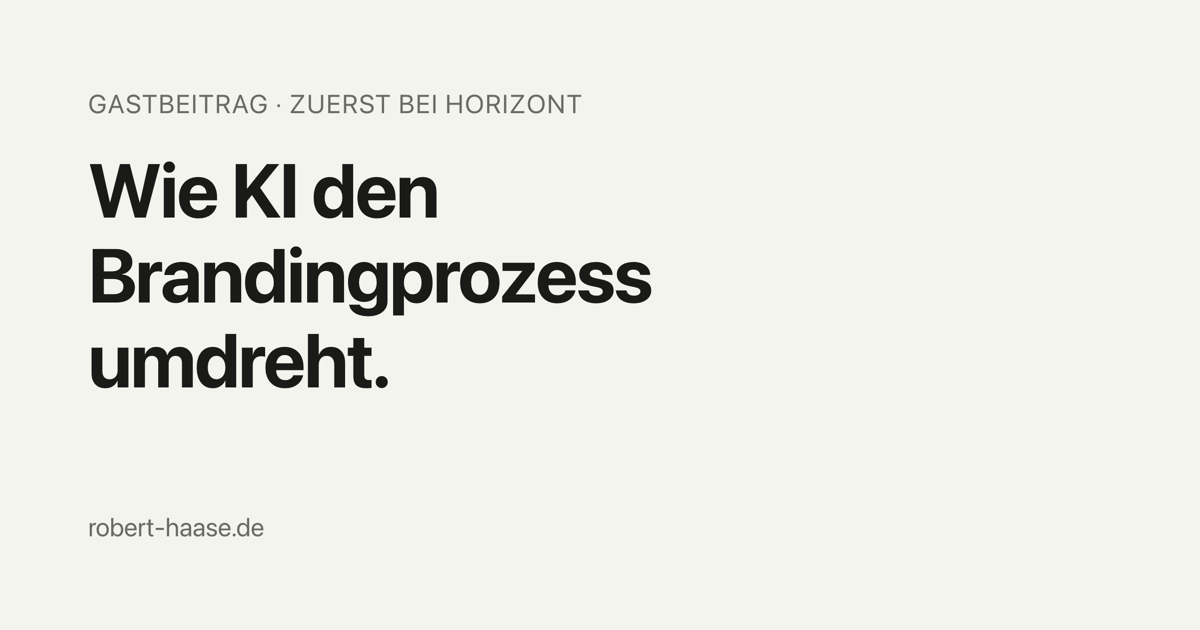
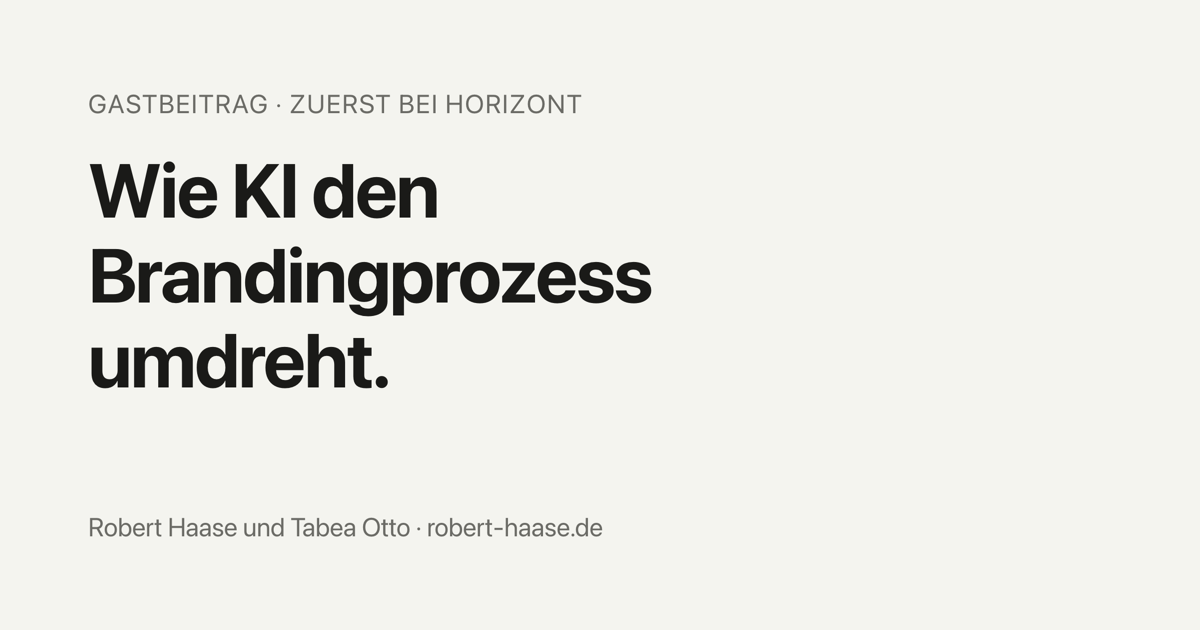
Gastbeitrag: Tabea Otto als Mitautorin
Autorenzeile, strukturierte Daten, Vorschaubilder, Artikelliste, Feed und
llms-Dateien nennen beide Namen.

Changed region(s): [[0.0617, 0.8143, 0.4933, 0.8746]]

diff --git a/en/how-ai-is-reversing-the-branding-process.html b/en/how-ai-is-reversing-the-branding-process.html
@@ -5,7 +5,7 @@
   <meta name="viewport" content="width=device-width, initial-scale=1.0">
   <title>How AI Is Reversing the Branding Process. | Robert Haase</title>
   <meta name="description" content="Teams produce with AI every day, and AI systems hand work to each other. Why this reverses the branding process. First published in German at HORIZONT.">
-  <meta name="author" content="Robert Haase">
+  <meta name="author" content="Robert Haase, Tabea Otto">
   <link rel="icon" href="/favicon.ico" sizes="any">
   <link rel="apple-touch-icon" href="/apple-touch-icon.png">
   <link rel="canonical" href="https://robert-haase.de/en/how-ai-is-reversing-the-branding-process.html">
@@ -69,13 +69,19 @@
   "@id": "https://robert-haase.de/en/how-ai-is-reversing-the-branding-process.html#article",
   "headline": "How AI Is Reversing the Branding Process.",
   "description": "Visibility in AI search is only the first stage. On the second, a company's own teams produce with AI; on the third, one system hands over to the next, and only what is explicitly defined arrives. Why checking how machines read the brand today moves to the start of the branding process.",
-  "author": {
-    "@id": "https://robert-haase.de/#person"
-  },
-  "contributor": {
-    "@type": "Person",
-    "name": "Tabea Otto"
-  },
+  "author": [
+    {
+      "@id": "https://robert-haase.de/#person"
+    },
+    {
+      "@type": "Person",
+      "name": "Tabea Otto",
+      "affiliation": {
+        "@type": "Organization",
+        "name": "MetaDesign"
+      }
+    }
+  ],
   "publisher": {
     "@type": "Organization",
     "name": "Robert Haase",
@@ -137,7 +143,7 @@
     <article>
       <section class="hero">
         <h1>How AI Is Reversing the Branding Process.</h1>
-        <p class="subtitle">September 2026 · <a href="about.html" rel="author" style="color: inherit; border-bottom: 1px solid var(--gray); text-decoration: none; padding-bottom: 1px;">Robert Haase</a></p>
+        <p class="subtitle">September 2026 · <a href="about.html" rel="author" style="color: inherit; border-bottom: 1px solid var(--gray); text-decoration: none; padding-bottom: 1px;">Robert Haase</a> and Tabea Otto</p>
         <p class="subtitle">First published in German at <a href="https://www.horizont.net/marketing/kommentare/markenfuehrung-wie-ki-den-brandingprozess-umdreht-235739" style="color: var(--white); border-bottom: 1px solid var(--gray); text-decoration: none; padding-bottom: 1px;">HORIZONT</a> on 9 September 2026.</p>
       </section>
 
@@ -191,9 +197,7 @@
 
         <p>And those who start early have an easier time. Because waiting is a decision, too. The AI still works with the brand, just with whatever it finds. And &#8220;whatever&#8221; is the opposite of a brand.</p>
 
-        <p><em>This text was written in dialogue with AI. The machine helped with the research and the wording. People decided what stayed in. And whoever is accountable for it is named above this text.</em></p>
-
-        <p><em>The text was written with Tabea Otto, who found every place where I had made it too easy for myself.</em></p>
+        <p><em>This text was written in dialogue with AI. The machine helped with the research and the wording. People decided what stayed in. And the people accountable for it are named above this text.</em></p>
 
         <p>Read next: <a href="brand-as-mcp-server.html" style="color: var(--white); border-bottom: 1px solid var(--gray); text-decoration: none; padding-bottom: 1px;">Brand as an MCP Server: How a Brand Answers When an Agent Asks. →</a></p>
 

diff --git a/wie-ki-den-brandingprozess-umdreht.html b/wie-ki-den-brandingprozess-umdreht.html
@@ -5,7 +5,7 @@
   <meta name="viewport" content="width=device-width, initial-scale=1.0">
   <title>Wie KI den Brandingprozess umdreht. | Robert Haase</title>
   <meta name="description" content="Teams produzieren täglich mit KI, Systeme übergeben einander Arbeit. Warum sich dadurch der Brandingprozess umdreht. Zuerst erschienen bei HORIZONT.">
-  <meta name="author" content="Robert Haase">
+  <meta name="author" content="Robert Haase, Tabea Otto">
   <link rel="icon" href="/favicon.ico" sizes="any">
   <link rel="apple-touch-icon" href="/apple-touch-icon.png">
   <link rel="canonical" href="https://www.horizont.net/marketing/kommentare/markenfuehrung-wie-ki-den-brandingprozess-umdreht-235739">
@@ -69,13 +69,19 @@
   "@id": "https://robert-haase.de/wie-ki-den-brandingprozess-umdreht.html#article",
   "headline": "Wie KI den Brandingprozess umdreht.",
   "description": "Sichtbarkeit in KI-Suchen ist nur die erste Stufe. Auf der zweiten produzieren die eigenen Teams mit KI, auf der dritten übergibt ein System an das nächste, und es kommt nur an, was festgelegt ist. Warum die Prüfung, wie Maschinen die Marke heute lesen, an den Anfang des Brandingprozesses rückt.",
-  "author": {
-    "@id": "https://robert-haase.de/#person"
-  },
-  "contributor": {
-    "@type": "Person",
-    "name": "Tabea Otto"
-  },
+  "author": [
+    {
+      "@id": "https://robert-haase.de/#person"
+    },
+    {
+      "@type": "Person",
+      "name": "Tabea Otto",
+      "affiliation": {
+        "@type": "Organization",
+        "name": "MetaDesign"
+      }
+    }
+  ],
   "publisher": {
     "@type": "Organization",
     "name": "HORIZONT",
@@ -135,7 +141,7 @@
     <article>
       <section class="hero">
         <h1>Wie KI den Brandingprozess umdreht.</h1>
-        <p class="subtitle">September 2026 · <a href="about.html" rel="author" style="color: inherit; border-bottom: 1px solid var(--gray); text-decoration: none; padding-bottom: 1px;">Robert Haase</a></p>
+        <p class="subtitle">September 2026 · <a href="about.html" rel="author" style="color: inherit; border-bottom: 1px solid var(--gray); text-decoration: none; padding-bottom: 1px;">Robert Haase</a> und Tabea Otto</p>
         <p class="subtitle">Zuerst erschienen bei <a href="https://www.horizont.net/marketing/kommentare/markenfuehrung-wie-ki-den-brandingprozess-umdreht-235739" style="color: var(--white); border-bottom: 1px solid var(--gray); text-decoration: none; padding-bottom: 1px;">HORIZONT</a> am 9. September 2026.</p>
       </section>
 
@@ -190,8 +196,6 @@
         <p>Und wer früh anfängt, hat es leichter. Denn auch Abwarten ist eine Entscheidung. Die KI arbeitet dann trotzdem mit der Marke, nur eben mit irgendetwas. Und irgendwas ist das Gegenteil von Marke.</p>
 
         <p><em>Dieser Text ist im Dialog mit KI entstanden. Die Maschine hat mitrecherchiert und mitformuliert. Entschieden haben Menschen, was stehen bleibt. Und wer dafür geradesteht, steht über diesem Text.</em></p>
-
-        <p><em>Entstanden ist der Text mit Tabea Otto, die jede Stelle gefunden hat, an der ich es mir zu leicht gemacht hatte.</em></p>
 
         <p>Weiterlesen: <a href="marke-als-mcp-server.html" style="color: var(--white); border-bottom: 1px solid var(--gray); text-decoration: none; padding-bottom: 1px;">Marke als MCP-Server: Wie eine Marke antwortet, wenn ein Agent fragt. →</a></p>
 

diff --git a/en/articles.html b/en/articles.html
@@ -164,7 +164,7 @@
       </article>
 
       <article>
-        <p class="date">September 2026 · first published at HORIZONT</p>
+        <p class="date">September 2026 · with Tabea Otto · first published at HORIZONT</p>
         <h2 class="article-title"><a href="how-ai-is-reversing-the-branding-process.html">How AI Is Reversing the Branding Process.</a></h2>
         <p>Visibility in AI search is only the first stage. On the second, a company's own teams produce with AI; on the third, one system hands over to the next, and only what is explicitly specified arrives. Why checking how machines read the brand today moves to the start of the branding process, and why the exception matters as much as the rule.</p>
       </article>

diff --git a/artikel.html b/artikel.html
@@ -164,7 +164,7 @@
       </article>
 
       <article>
-        <p class="date">September 2026 · zuerst bei HORIZONT</p>
+        <p class="date">September 2026 · mit Tabea Otto · zuerst bei HORIZONT</p>
         <h2 class="article-title"><a href="wie-ki-den-brandingprozess-umdreht.html">Wie KI den Brandingprozess umdreht.</a></h2>
         <p>Sichtbarkeit in KI-Suchen ist nur die erste Stufe. Auf der zweiten produzieren die eigenen Teams mit KI, auf der dritten übergibt ein System an das nächste, und es kommt nur an, was festgelegt ist. Warum die Prüfung, wie Maschinen die Marke heute lesen, an den Anfang des Brandingprozesses rückt, und warum die Ausnahme genauso wichtig ist wie die Regel.</p>
       </article>
